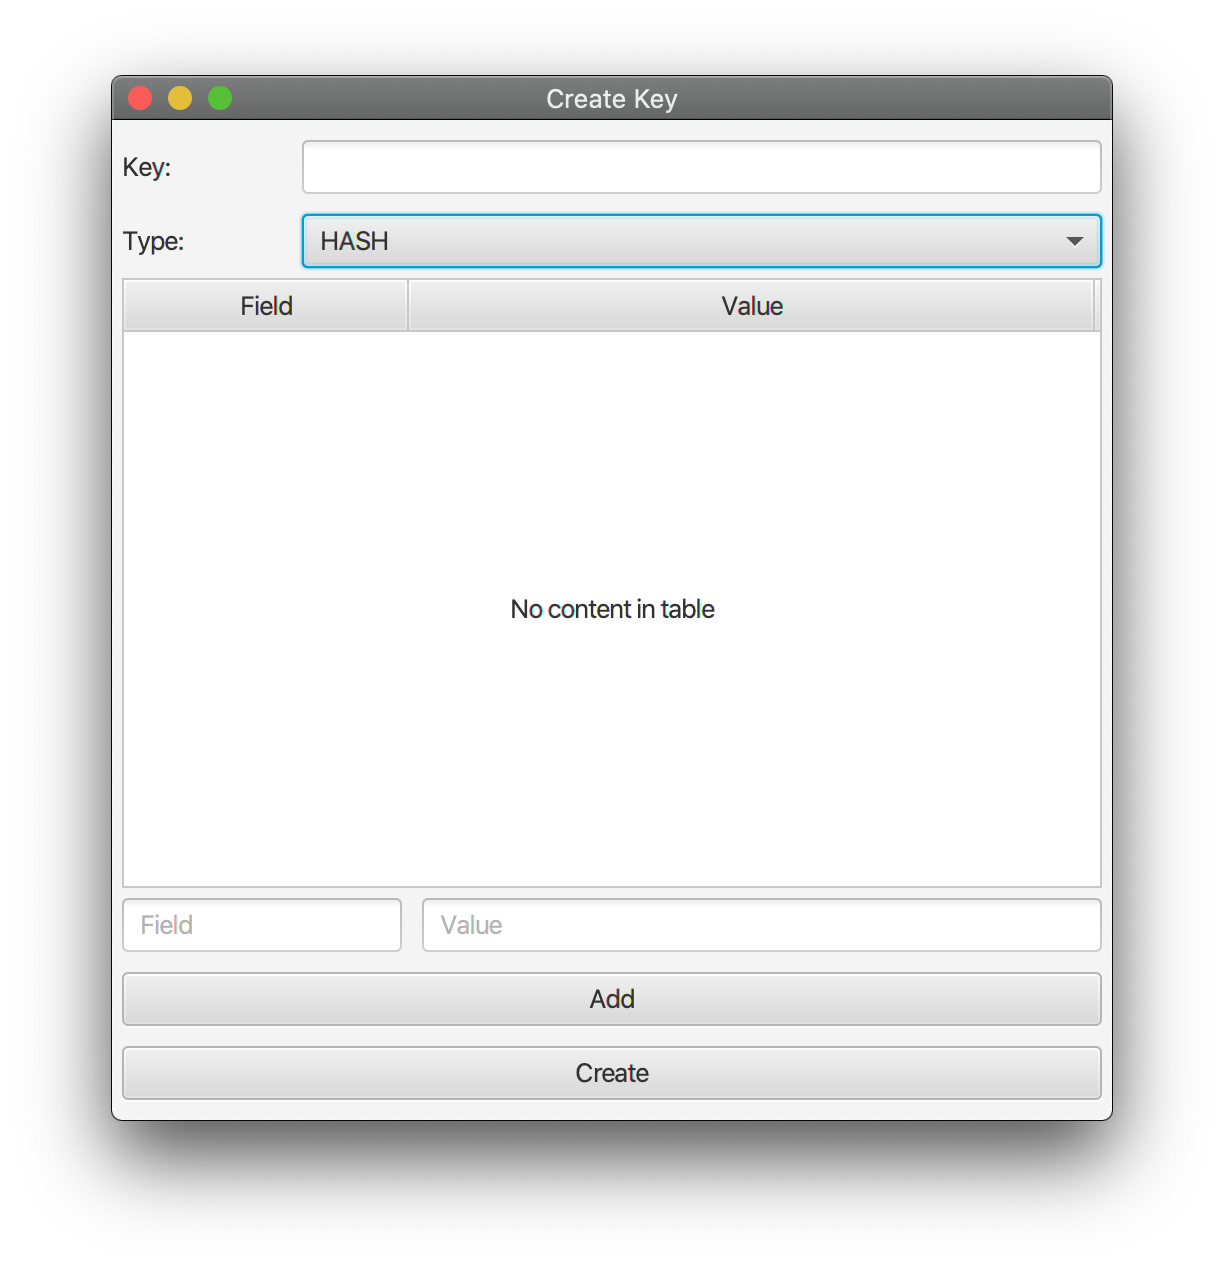
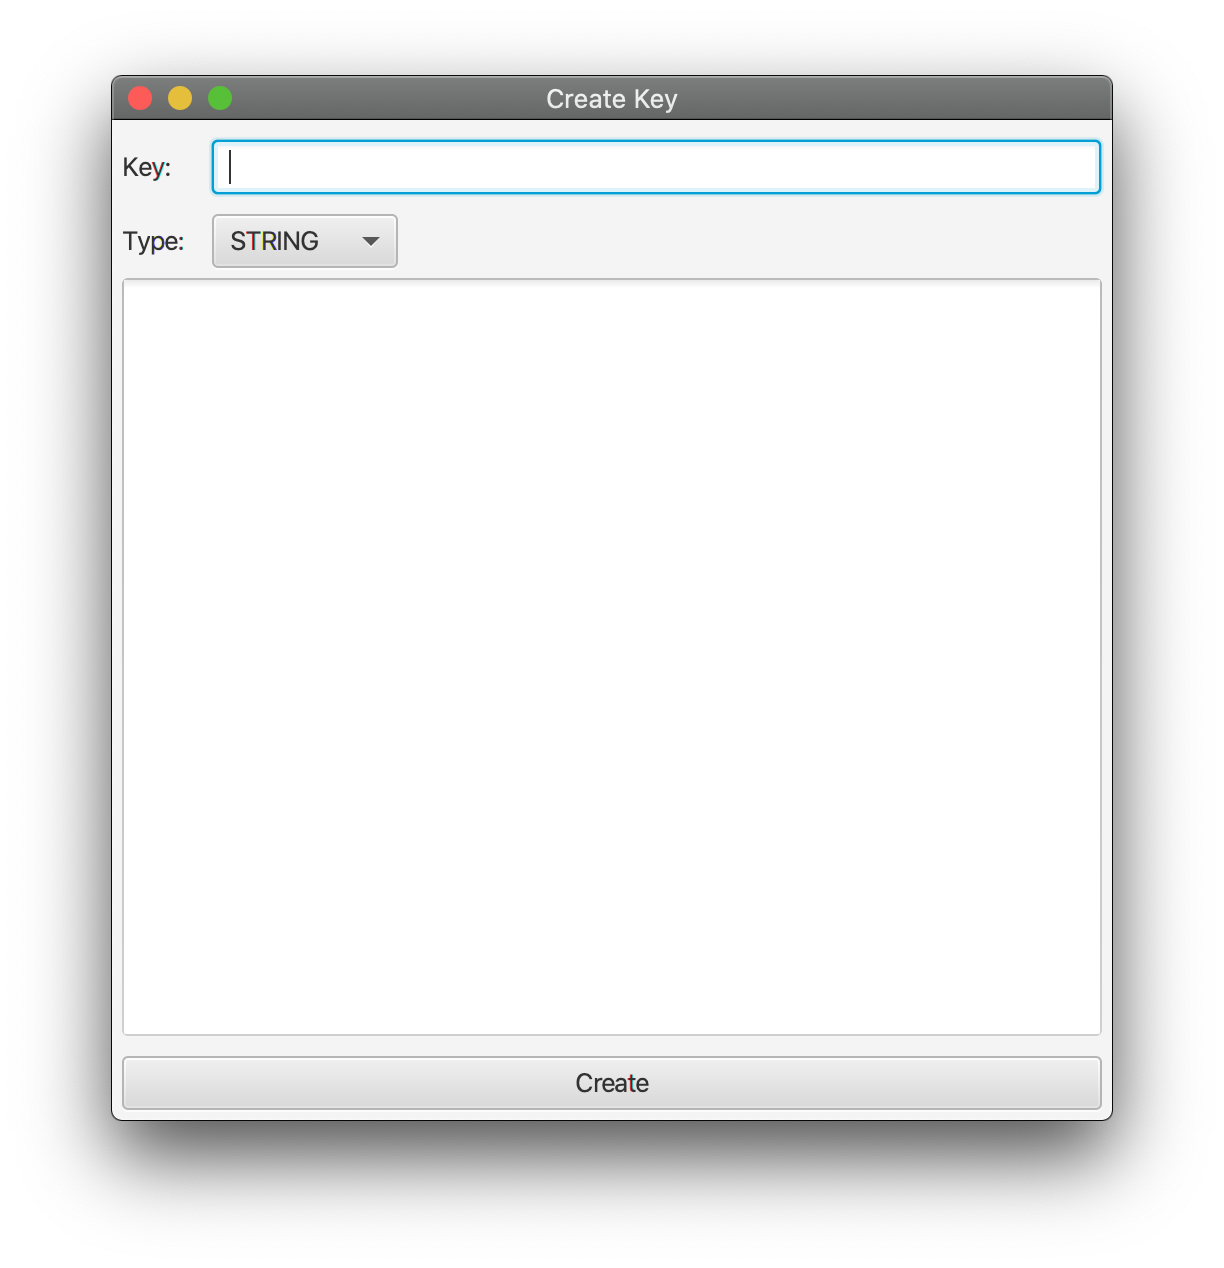
optimize ui & refactor code

Changed region(s): [[0.0931, 0.0923, 0.9003, 0.2768], [0.0931, 0.7074, 0.9003, 0.892], [0.4036, 0.4614, 0.5899, 0.4921]]

diff --git a/src/main/java/ui/controller/MainController.java b/src/main/java/ui/controller/MainController.java
@@ -2,7 +2,6 @@ package ui.controller;
 
 import javafx.beans.property.ListProperty;
 import javafx.beans.property.SimpleListProperty;
-import javafx.beans.property.SimpleStringProperty;
 import javafx.collections.FXCollections;
 import javafx.fxml.FXML;
 import javafx.fxml.FXMLLoader;
@@ -13,14 +12,10 @@ import javafx.scene.control.Button;
 import javafx.scene.control.ButtonType;
 import javafx.scene.control.Label;
 import javafx.scene.control.ListView;
-import javafx.scene.control.TableColumn;
-import javafx.scene.control.TableView;
 import javafx.scene.control.TextArea;
 import javafx.scene.control.TextField;
 import javafx.scene.control.cell.TextFieldListCell;
-import javafx.scene.control.cell.TextFieldTableCell;
 import javafx.stage.Stage;
-import javafx.util.converter.DefaultStringConverter;
 import org.slf4j.Logger;
 import org.slf4j.LoggerFactory;
 import redis.builder.RedisObjectBuilder;
@@ -28,17 +23,15 @@ import redis.domain.RedisData;
 import redis.domain.RedisObject;
 import redis.domain.RedisType;
 import redis.service.Redis;
-import ui.controller.control.RedisHashControl;
+import ui.controller.control.RedisHashView;
 import ui.util.AlertUtil;
 import util.Strings;
 
 import java.io.IOException;
 import java.net.URL;
 import java.util.HashSet;
-import java.util.Map;
 import java.util.ResourceBundle;
 import java.util.Set;
-import java.util.stream.Collectors;
 
 import static redis.domain.RedisType.HASH;
 import static redis.domain.RedisType.SET;
@@ -72,7 +65,7 @@ public class MainController implements Initializable {
     @FXML
     ListView<String> redisSetResult;
     @FXML
-    RedisHashControl redisHashControl;
+    RedisHashView redisHashView;
 
     @Override
     public void initialize(URL location, ResourceBundle resources) {
@@ -108,8 +101,7 @@ public class MainController implements Initializable {
                 showResult(false, true, false);
                 break;
             case HASH:
-                redisHashControl.setKey(key);
-                redisHashControl.getRedisHashResult().setItems(FXCollections.observableArrayList(redis.get(key).hash.entrySet()));
+                redisHashView.setItems(FXCollections.observableArrayList(redis.get(key).hash.entrySet()));
                 showResult(false, false, true);
                 break;
             default:
@@ -142,7 +134,7 @@ public class MainController implements Initializable {
         } else if (type == SET) {
             data.set = new HashSet<>(redisSetResultListProperty);
         } else if (type == HASH) {
-            data.hash = redisHashControl.getRedisHashResult().getItems().stream().collect(Collectors.toMap(Map.Entry::getKey, Map.Entry::getValue));
+            data.hash = redisHashView.redisHash();
         }
 
         RedisObject redisObject = new RedisObjectBuilder().key(key)
@@ -179,7 +171,7 @@ public class MainController implements Initializable {
     private void showResult(boolean string, boolean set, boolean hash) {
         redisResult.setVisible(string);
         redisSetResult.setVisible(set);
-        redisHashControl.getRedisHashResult().setVisible(hash);
+        redisHashView.visible(hash);
     }
 
     private void refresh() {
@@ -190,9 +182,5 @@ public class MainController implements Initializable {
 
     private void setResultCount(int size) {
         resultCount.setText("Number of Count: " + size);
-    }
-
-    public ListView<String> getRedisKeys() {
-        return redisKeys;
     }
 }

diff --git a/src/main/java/ui/controller/control/RedisHashView.java b/src/main/java/ui/controller/control/RedisHashView.java
@@ -1,29 +1,22 @@
 package ui.controller.control;
 
 import javafx.beans.property.SimpleStringProperty;
-import javafx.collections.FXCollections;
+import javafx.collections.ObservableList;
 import javafx.fxml.FXML;
 import javafx.fxml.FXMLLoader;
 import javafx.scene.control.TableColumn;
 import javafx.scene.control.TableView;
 import javafx.scene.control.cell.TextFieldTableCell;
 import javafx.scene.layout.AnchorPane;
-import redis.builder.RedisObjectBuilder;
-import redis.domain.RedisData;
-import redis.domain.RedisObject;
-import redis.domain.RedisType;
-import redis.service.Redis;
 
 import java.io.IOException;
-import java.util.HashMap;
-import java.util.Iterator;
 import java.util.Map;
 import java.util.stream.Collectors;
 
 /**
  * @author kentsang
  */
-public class RedisHashControl extends AnchorPane {
+public class RedisHashView extends AnchorPane {
     @FXML
     TableView<Map.Entry<String, String>> redisHashResult;
     @FXML
@@ -31,13 +24,11 @@ public class RedisHashControl extends AnchorPane {
     @FXML
     TableColumn<Map.Entry<String, String>, String> redisHashValue;
 
-    private String key;
-
-    public RedisHashControl() {
+    public RedisHashView() {
         super();
 
         try {
-            FXMLLoader fxmlLoader = new FXMLLoader(getClass().getResource("/tableView.fxml"));
+            FXMLLoader fxmlLoader = new FXMLLoader(getClass().getResource("/redis-hash-view.fxml"));
             fxmlLoader.setController(this);
             this.getChildren().add(fxmlLoader.load());
         } catch (IOException e) {
@@ -50,24 +41,22 @@ public class RedisHashControl extends AnchorPane {
 
         // set editable cell
         redisHashValue.setCellFactory(TextFieldTableCell.forTableColumn());
-        redisHashValue.setOnEditCommit(this::editOnCommitEvent);
+        redisHashValue.setOnEditCommit(table -> table.getTableView().getItems().get(table.getTablePosition().getRow()).setValue(table.getNewValue()));
 
         // set column width
         redisHashField.prefWidthProperty().bind(redisHashResult.widthProperty().multiply(0.29));
         redisHashValue.prefWidthProperty().bind(redisHashResult.widthProperty().multiply(0.7));
     }
 
-    @FXML
-    public void editOnCommitEvent(TableColumn.CellEditEvent<Map.Entry<String, String>, String> editedEvent) {
-        Redis.getInstance().update(key, editedEvent.getRowValue().getKey(), editedEvent.getNewValue());
-        redisHashResult.setItems(FXCollections.observableArrayList(Redis.getInstance().get(key).hash.entrySet()));
+    public void visible(boolean value) {
+        redisHashResult.setVisible(value);
     }
 
-    public void setKey(String key) {
-        this.key = key;
+    public void setItems(ObservableList<Map.Entry<String, String>> items) {
+        redisHashResult.setItems(items);
     }
 
-    public TableView<Map.Entry<String, String>> getRedisHashResult() {
-        return redisHashResult;
+    public Map<String, String> redisHash() {
+        return redisHashResult.getItems().stream().collect(Collectors.toMap(Map.Entry::getKey, Map.Entry::getValue));
     }
 }

diff --git a/src/main/java/redis/service/Redis.java b/src/main/java/redis/service/Redis.java
@@ -55,10 +55,6 @@ public class Redis {
         RedisHandlers.of(redisObject.type).update(redisObject);
     }
 
-    public void update(String key, String field, String value) {
-        jedis.hset(key, field, value);
-    }
-
     public void add(RedisObject redisObject) {
         RedisHandlers.of(redisObject.type).add(redisObject);
     }
